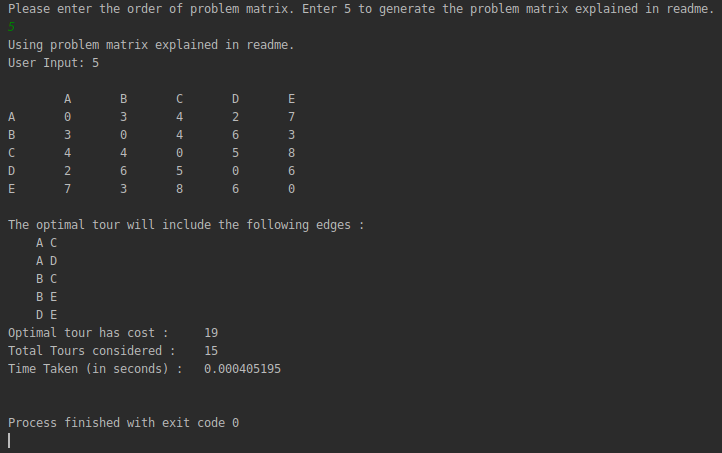
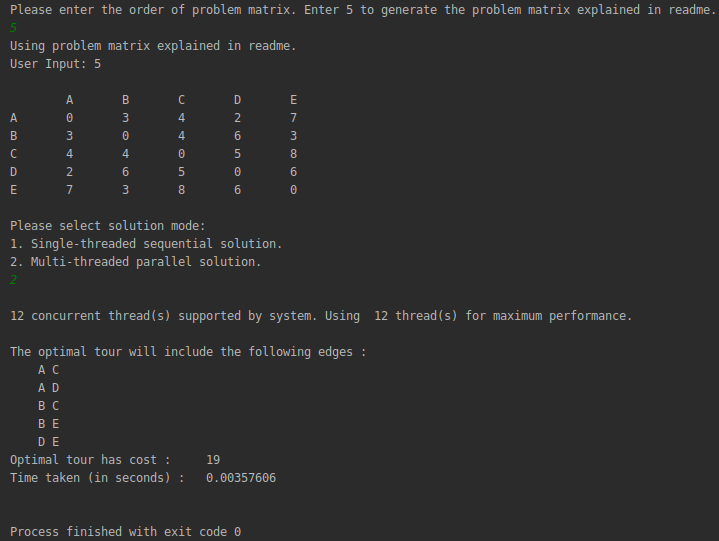
Update with new constraints
+ GIFs for visualization

diff --git a/src/main.cpp b/src/main.cpp
@@ -86,7 +86,7 @@ void multiThreadBAndBTSP(Matrix* problemMatrix) {
     std::cin >> choice;
     if (choice == 1) {
         numThreads = 1;
-        std::cout << "Running in single-threaded sequential mode" << std::endl;
+        std::cout << "Running in single-threaded sequential mode." << std::endl;
     } else {
         std::cout << "\n" << numThreads << " concurrent thread(s) supported by system. Using  " << numThreads
                   << " thread(s) for maximum performance." << std::endl;
@@ -117,7 +117,7 @@ void multiThreadBAndBTSP(Matrix* problemMatrix) {
 
     std::chrono::duration<double> elapsed_seconds = end - start;
     bestTour.printRoute();
-    std::cout << "Time Taken (in seconds) :\t" << elapsed_seconds.count() << std::endl;
+    std::cout << "Time taken (in seconds) :\t" << elapsed_seconds.count() << std::endl;
     std::cout << std::endl;
 }
 
@@ -127,9 +127,8 @@ int main() {
     std::cout << "Please enter the order of problem matrix. Enter 5 to generate the problem matrix explained in readme."
               << std::endl;
     std::cin >> matrixOrder;
-    std::cout << "User Input: ";
     Matrix problemMatrix(matrixOrder);
-    std::cout << problemMatrix.getOrder() << "\n" << std::endl;
+    std::cout << "User Input: " << problemMatrix.getOrder() << "\n" << std::endl;
     problemMatrix.displayMatrix();
     multiThreadBAndBTSP(&problemMatrix);
     return 0;

diff --git a/README.md b/README.md
@@ -50,21 +50,43 @@ i.e. **edge(a, d)** *is same as* **edge(d, a)**.
 ![](./readme/problemSolution.png)
 ![](./readme/input5.png)
 
-## Sequential Solution
+## Sequential Solution / Multi-threaded Solution
+Consider the following input matrix.
+![](./readme/input29.png)
 
-**Randomly generated problem matrix having 26 nodes:**
+### Sequential Solution
 
-![](./readme/input26.png)
+![](./readme/input29sequential.gif)
+
+![](./readme/input29SequentialSolution.png)
+
 
 ![](./readme/result26.png)
 
 ## Multi-threaded Solution
-![](./readme/input26MT.png)
-![](./readme/result26MT.png)
+![](./readme/input29parallel.gif)
+![](./readme/input30parallelsolution.png)
+
+### Sequential Solution vs Multi-threaded Solution
+
+Below are some of the observed values. As can be clearly seen, there is not much difference between the two methods for small input sizes, but the difference grows exponentially as the number of cities increase.
+
+|No. of cities 		| Optimal Tour Cost |     Time taken : Sequential Solution | Time taken : Parallel Solution|
+| ----------------|:-------------:| -----:|-------:|
+| 5	|	19		|	**0.00120875** seconds	| **0.00357606** seconds
+| 10		|22	|		**0.0180687** seconds	|  **0.0130591** seconds
+| 15   	| 31	|		**0.479548** seconds | **0.152671** seconds
+| 20 	| 33 	|  **16.9916** seconds | **4.43818** seconds
+| 22    	| 36 	|	**8.0414** seconds | **1.87537** seconds
+| 24		|	36	|	**51.9371** seconds | **13.0014** seconds
+| 26 	|	37	| **654.127** seconds or ***10.90*** *minutes*| **193.009** seconds or ***3.21*** *minutes*
+| 28	 	|	37  |	**527.881** seconds ***8.79*** *minutes*| **143.635** seconds or ***3.29*** *minutes*
+| 29		|	38  |    **2411.89** seconds or ***40.19*** *minutes*| **683.101** seconds ***11.38*** *minutes*
+ 
 
 ## References
 
-Some resources on understanding and solving the travelling salesman problem.
+Some resources on understanding and solving the Travelling Salesman Problem.
 
 * [**Game Theory Lab, Department of Computer Science and Automation, Indian Institute of Science Bangalore**](http://lcm.csa.iisc.ernet.in/dsa/node187.html)
 
